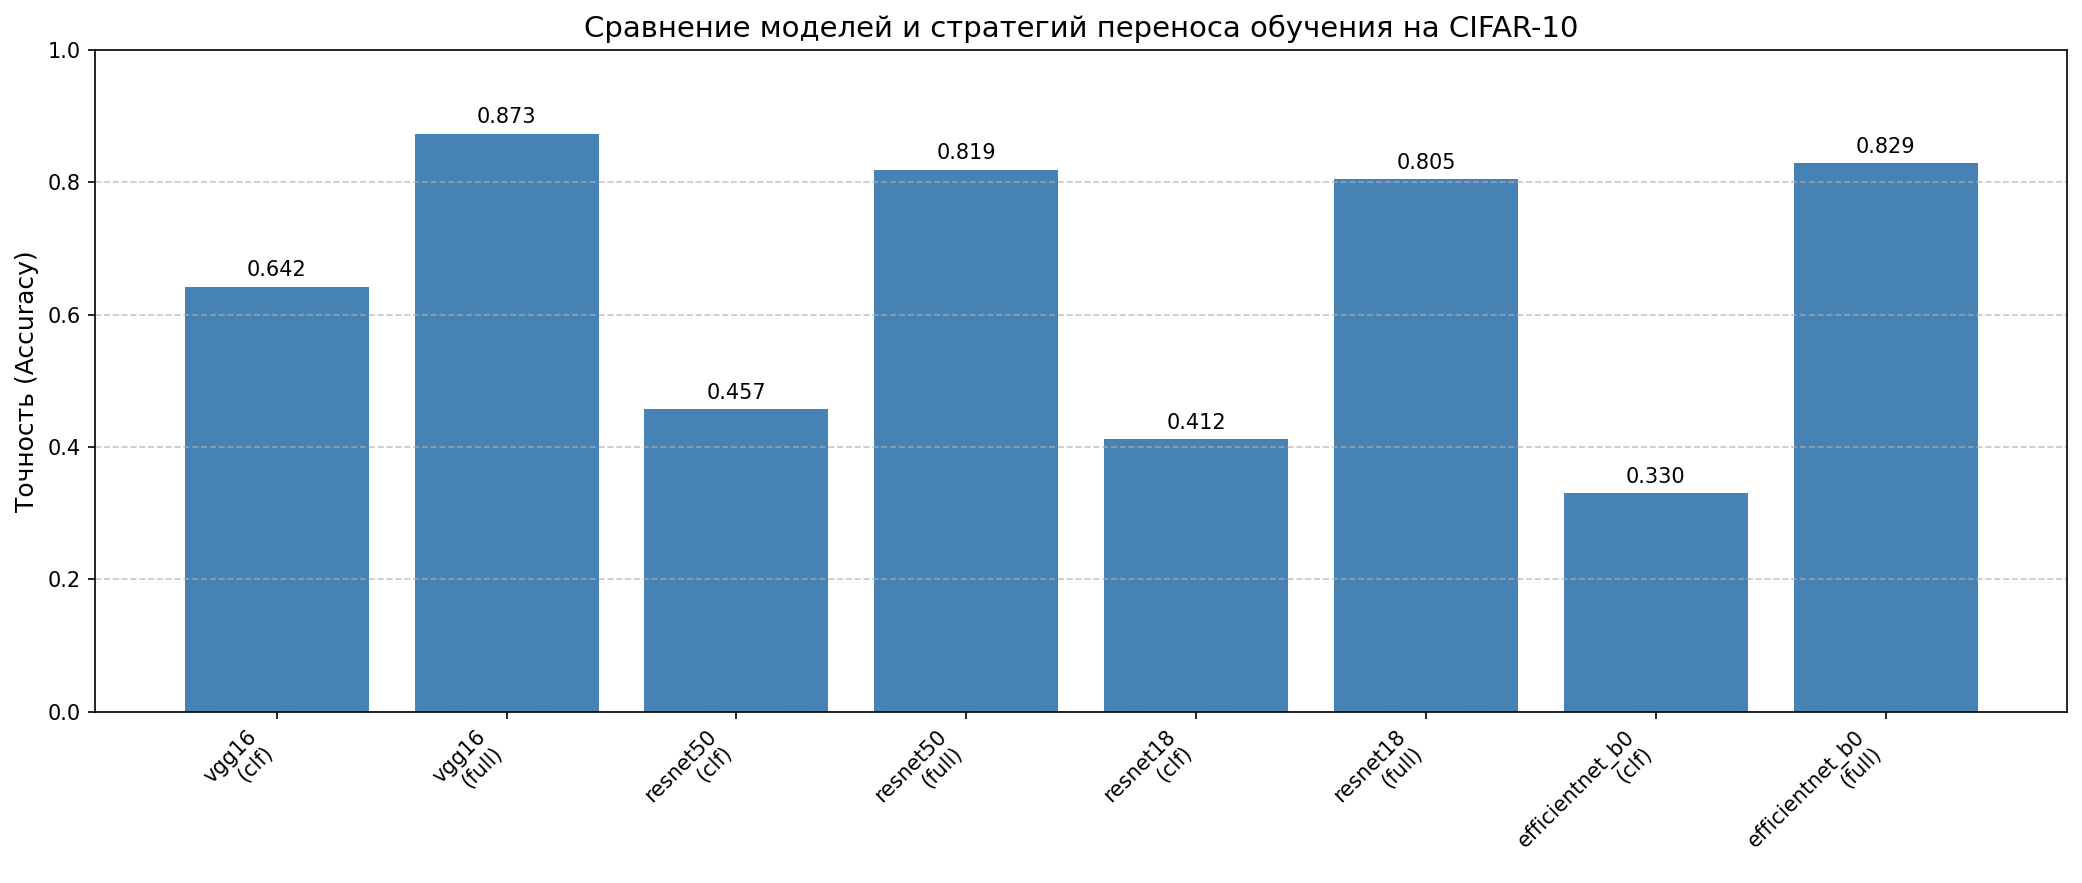
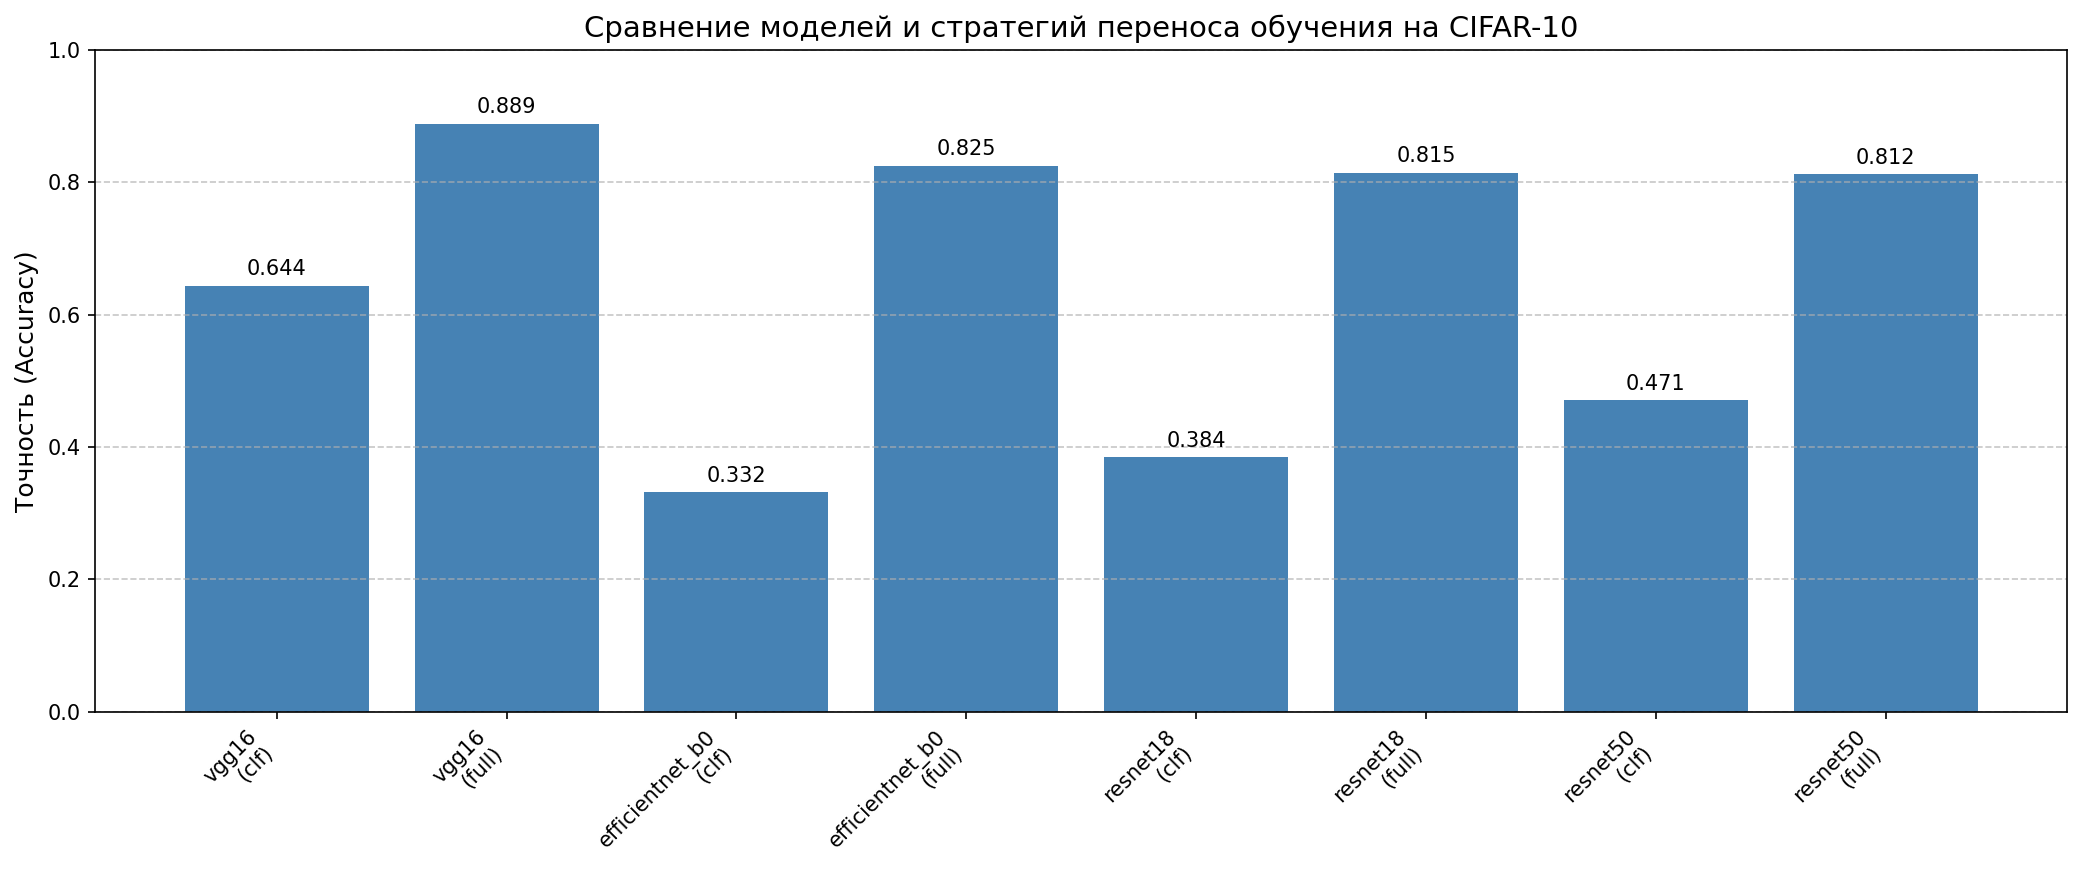
fix lab3

diff --git a/ShishkinaVA/lab3/lab3.py b/ShishkinaVA/lab3/lab3.py
@@ -6,58 +6,48 @@ import torchvision.transforms as transforms
 import torchvision.models as models
 from torch.utils.data import DataLoader
 import matplotlib.pyplot as plt
-import torchviz
+from torchmetrics import Accuracy
+import argparse
 import os
 
-def train_one_epoch(model, dataloader, criterion, optimizer, device):
-    model.train()
-    running_loss = 0.0
-    correct = 0
-    total = 0
-    for inputs, labels in dataloader:
-        inputs, labels = inputs.to(device), labels.to(device)
-        optimizer.zero_grad()
-        outputs = model(inputs)
-        loss = criterion(outputs, labels)
-        loss.backward()
-        optimizer.step()
-        running_loss += loss.item()
-        _, predicted = torch.max(outputs, 1)
-        total += labels.size(0)
-        correct += (predicted == labels).sum().item()
-    epoch_loss = running_loss / len(dataloader)
-    epoch_acc = correct / total
-    return epoch_loss, epoch_acc
+def train_model(model, trainloader, criterion, optimizer, device, num_epochs):
+    for epoch in range(num_epochs):
+        model.train()
+        running_loss = 0.0
+        acc_metric = Accuracy(task="multiclass", num_classes=10).to(device)
+
+        for inputs, labels in trainloader:
+            inputs, labels = inputs.to(device), labels.to(device)
+            optimizer.zero_grad()
+            outputs = model(inputs)
+            loss = criterion(outputs, labels)
+            loss.backward()
+            optimizer.step()
+
+            running_loss += loss.item()
+            acc_metric.update(outputs, labels)
+
+        epoch_loss = running_loss / len(trainloader)
+        epoch_acc = acc_metric.compute().item()
+        print(f"Эпоха [{epoch+1}/{num_epochs}] Train Loss: {epoch_loss:.4f}, Train Acc: {epoch_acc:.4f}")
+
+    return model
 
 def evaluate(model, dataloader, criterion, device):
     model.eval()
     test_loss = 0.0
-    correct = 0
-    total = 0
+    acc_metric = Accuracy(task="multiclass", num_classes=10).to(device)
+
     with torch.no_grad():
         for inputs, labels in dataloader:
             inputs, labels = inputs.to(device), labels.to(device)
             outputs = model(inputs)
             test_loss += criterion(outputs, labels).item()
-            _, predicted = torch.max(outputs, 1)
-            total += labels.size(0)
-            correct += (predicted == labels).sum().item()
-    avg_test_loss = test_loss / len(dataloader)
-    test_acc = correct / total
-    return avg_test_loss, test_acc
+            acc_metric.update(outputs, labels)
 
-def calculate_accuracy(model, dataloader, device):
-    model.eval()
-    correct = 0
-    total = 0
-    with torch.no_grad():
-        for inputs, labels in dataloader:
-            inputs, labels = inputs.to(device), labels.to(device)
-            outputs = model(inputs)
-            _, predicted = torch.max(outputs, 1)
-            total += labels.size(0)
-            correct += (predicted == labels).sum().item()
-    return correct / total
+    avg_test_loss = test_loss / len(dataloader)
+    test_acc = acc_metric.compute().item()
+    return avg_test_loss, test_acc
 
 def create_transfer_model(model_name, num_classes=10, pretrained=True, freeze_backbone=True):
     if model_name == 'vgg16':
@@ -94,7 +84,7 @@ def create_transfer_model(model_name, num_classes=10, pretrained=True, freeze_ba
 
     return model, trainable_params, init_info
 
-def run_experiment(model_name, freeze_backbone, trainloader, testloader, device, num_epochs):
+def run_experiment(model_name, freeze_backbone, trainloader, testloader, device, num_epochs, lr, momentum, models_dir):
     model, trainable_params, init_info = create_transfer_model(
         model_name, num_classes=10, pretrained=True, freeze_backbone=freeze_backbone
     )
@@ -107,22 +97,26 @@ def run_experiment(model_name, freeze_backbone, trainloader, testloader, device,
         modified_layer_info = f"EfficientNet Classifier[1]: {model.classifier[1].in_features} -> {model.classifier[1].out_features}"
     
     criterion = nn.CrossEntropyLoss()
-    optimizer = optim.SGD(trainable_params, lr=0.01, momentum=0.9)
+    optimizer = optim.SGD(trainable_params, lr=lr, momentum=momentum)
 
-    for epoch in range(num_epochs):
-        train_loss, train_acc = train_one_epoch(model, trainloader, criterion, optimizer, device)
-        test_loss, test_acc = evaluate(model, testloader, criterion, device)
+    model = train_model(model, trainloader, criterion, optimizer, device, num_epochs)
 
-    final_acc = calculate_accuracy(model, testloader, device)
+    final_test_loss, final_test_acc = evaluate(model, testloader, criterion, device)
     exp_type = "classifier_only" if freeze_backbone else "full_finetune"
+    os.makedirs(models_dir, exist_ok=True)
+    suffix = "clf" if freeze_backbone else "full"
+    save_path = os.path.join(models_dir, f"{model_name}_{suffix}.pth")
+    torch.save(model.state_dict(), save_path)
+    print(f"Модель сохранена: {save_path}")
     return {
         'model': model_name,
         'experiment': exp_type,
-        'accuracy': final_acc,
+        'accuracy':  final_test_acc,
         'init_info': init_info,
         'optimizer': 'SGD (lr=0.01, momentum=0.9)',
         'modified_layer': modified_layer_info,
-        'epochs': num_epochs
+        'epochs': num_epochs,
+        'save_path': save_path
     }
 
 def plot_comparison_histogram(results, save_path='transfer_learning_comparison.png'):
@@ -194,7 +188,73 @@ def print_best_result(results):
     print(f"Эпох обучения:        {best_result['epochs']}")
     print(f"Точность на тесте:    {100 * best_result['accuracy']:.2f}%")
 
-if __name__ == '__main__':
+def load_model_names(file_path):
+    with open(file_path, 'r', encoding='utf-8') as f:
+        model_names = [line.strip() for line in f if line.strip()]
+    return model_names
+
+def cli_argument_parser():
+    parser = argparse.ArgumentParser(
+        description="Transfer Learning на CIFAR-10 с предобученными моделями."
+    )
+
+    parser.add_argument('-dd', '--data_dir',
+                        help='Директория для загрузки/хранения датасета CIFAR-10',
+                        type=str,
+                        dest='data_dir',
+                        default='./data')
+
+    parser.add_argument('-e', '--epochs',
+                        help='Количество эпох обучения',
+                        type=int,
+                        dest='epochs',
+                        default=10)
+
+    parser.add_argument('-bs', '--batch_size',
+                        help='Размер батча для DataLoader',
+                        type=int,
+                        dest='batch_size',
+                        default=64)
+    parser.add_argument('-lr', '--learning_rate',
+                        help='Скорость обучения для оптимизатора SGD',
+                        type=float,
+                        dest='learning_rate',
+                        default=0.01)
+
+    parser.add_argument('-mom', '--momentum',
+                        help='Моментум для оптимизатора SGD',
+                        type=float,
+                        dest='momentum',
+                        default=0.9)
+
+    parser.add_argument('-msp', '--model_save_path',
+                        help='Путь для сохранения весов модели',
+                        type=str,
+                        dest='model_save_path',
+                        default='cifar10_cnn.pth')
+
+    parser.add_argument('-psp', '--predictions_save_path',
+                        help='Путь для сохранения изображения с предсказаниями',
+                        type=str,
+                        dest='predictions_save_path',
+                        default='transfer_learning_comparison.png')
+    
+    parser.add_argument('--model_names_file',
+                        help='Путь к файлу со списком доступных моделей (по одной на строку)',
+                        type=str,
+                        dest='model_names_file',
+                        default='transfer_models.txt')
+    
+    parser.add_argument('--models_dir',
+                        help='Директория для сохранения весов обученных моделей',
+                        type=str,
+                        dest='models_dir',
+                        default='./saved_models')
+
+    args = parser.parse_args()
+    return args
+
+def main(args):
     device = torch.device("cuda" if torch.cuda.is_available() else "cpu")
     print(f"Устройство: {device}")
 
@@ -202,31 +262,45 @@ if __name__ == '__main__':
         transforms.ToTensor(),
         transforms.Normalize((0.5, 0.5, 0.5), (0.5, 0.5, 0.5))
     ])
+    # transform = transforms.Compose([
+    #     transforms.Resize(224),
+    #     transforms.ToTensor(),
+    #     transforms.Normalize(mean=[0.485, 0.456, 0.406], std=[0.229, 0.224, 0.225])
+    # ])
 
-    trainset = torchvision.datasets.CIFAR10(root='./data', train=True, download=False, transform=transform)
-    testset = torchvision.datasets.CIFAR10(root='./data', train=False, download=False, transform=transform)
+    trainset = torchvision.datasets.CIFAR10(root=args.data_dir, train=True, download=False, transform=transform)
+    testset = torchvision.datasets.CIFAR10(root=args.data_dir, train=False, download=False, transform=transform)
 
-    trainloader = DataLoader(trainset, batch_size=64, shuffle=True, num_workers=2)
-    testloader = DataLoader(testset, batch_size=64, shuffle=False, num_workers=2)
+    trainloader = DataLoader(trainset, batch_size=args.batch_size, shuffle=True, num_workers=2)
+    testloader = DataLoader(testset, batch_size=args.batch_size, shuffle=False, num_workers=2)
 
     print(f"Обучающих изображений: {len(trainset)}")
     print(f"Тестовых изображений: {len(testset)}")
 
-    model_names = ['vgg16', 'resnet50', 'resnet18', 'efficientnet_b0']
+    model_names = load_model_names(args.model_names_file)
+    print(f"Модели для экспериментов: {model_names}")
     results = []
 
     for model_name in model_names:
         print(f"\nЗапуск экспериментов для {model_name}...")
         try:
-            res1 = run_experiment(model_name, freeze_backbone=True,
-                                    trainloader=trainloader, testloader=testloader,
-                                    device=device, num_epochs=1)
+            res1 = run_experiment(
+                model_name, freeze_backbone=True,
+                trainloader=trainloader, testloader=testloader,
+                device=device, num_epochs=args.epochs,
+                lr=args.learning_rate, momentum=args.momentum,
+                models_dir=args.models_dir
+            )
             results.append(res1)
             print(f"classifier_only: {res1['accuracy']:.4f}")
 
-            res2 = run_experiment(model_name, freeze_backbone=False,
-                                    trainloader=trainloader, testloader=testloader,
-                                    device=device, num_epochs=1)
+            res2 = run_experiment(
+                model_name, freeze_backbone=False,
+                trainloader=trainloader, testloader=testloader,
+                device=device, num_epochs=args.epochs,
+                lr=args.learning_rate, momentum=args.momentum,
+                models_dir=args.models_dir
+            )
             results.append(res2)
             print(f"full_finetune:   {res2['accuracy']:.4f}")
         except Exception as e:
@@ -237,8 +311,10 @@ if __name__ == '__main__':
     else:
         best_result = max(results, key=lambda x: x['accuracy'])
 
-        plot_comparison_histogram(results, save_path='transfer_learning_comparison.png')
+    plot_comparison_histogram(results, save_path=args.predictions_save_path)
+    print_detailed_results(results)
+    print_best_result(results)
 
-        print_detailed_results(results)
-        
-        print_best_result(results)
+if __name__ == '__main__':
+    args = cli_argument_parser()
+    main(args)
